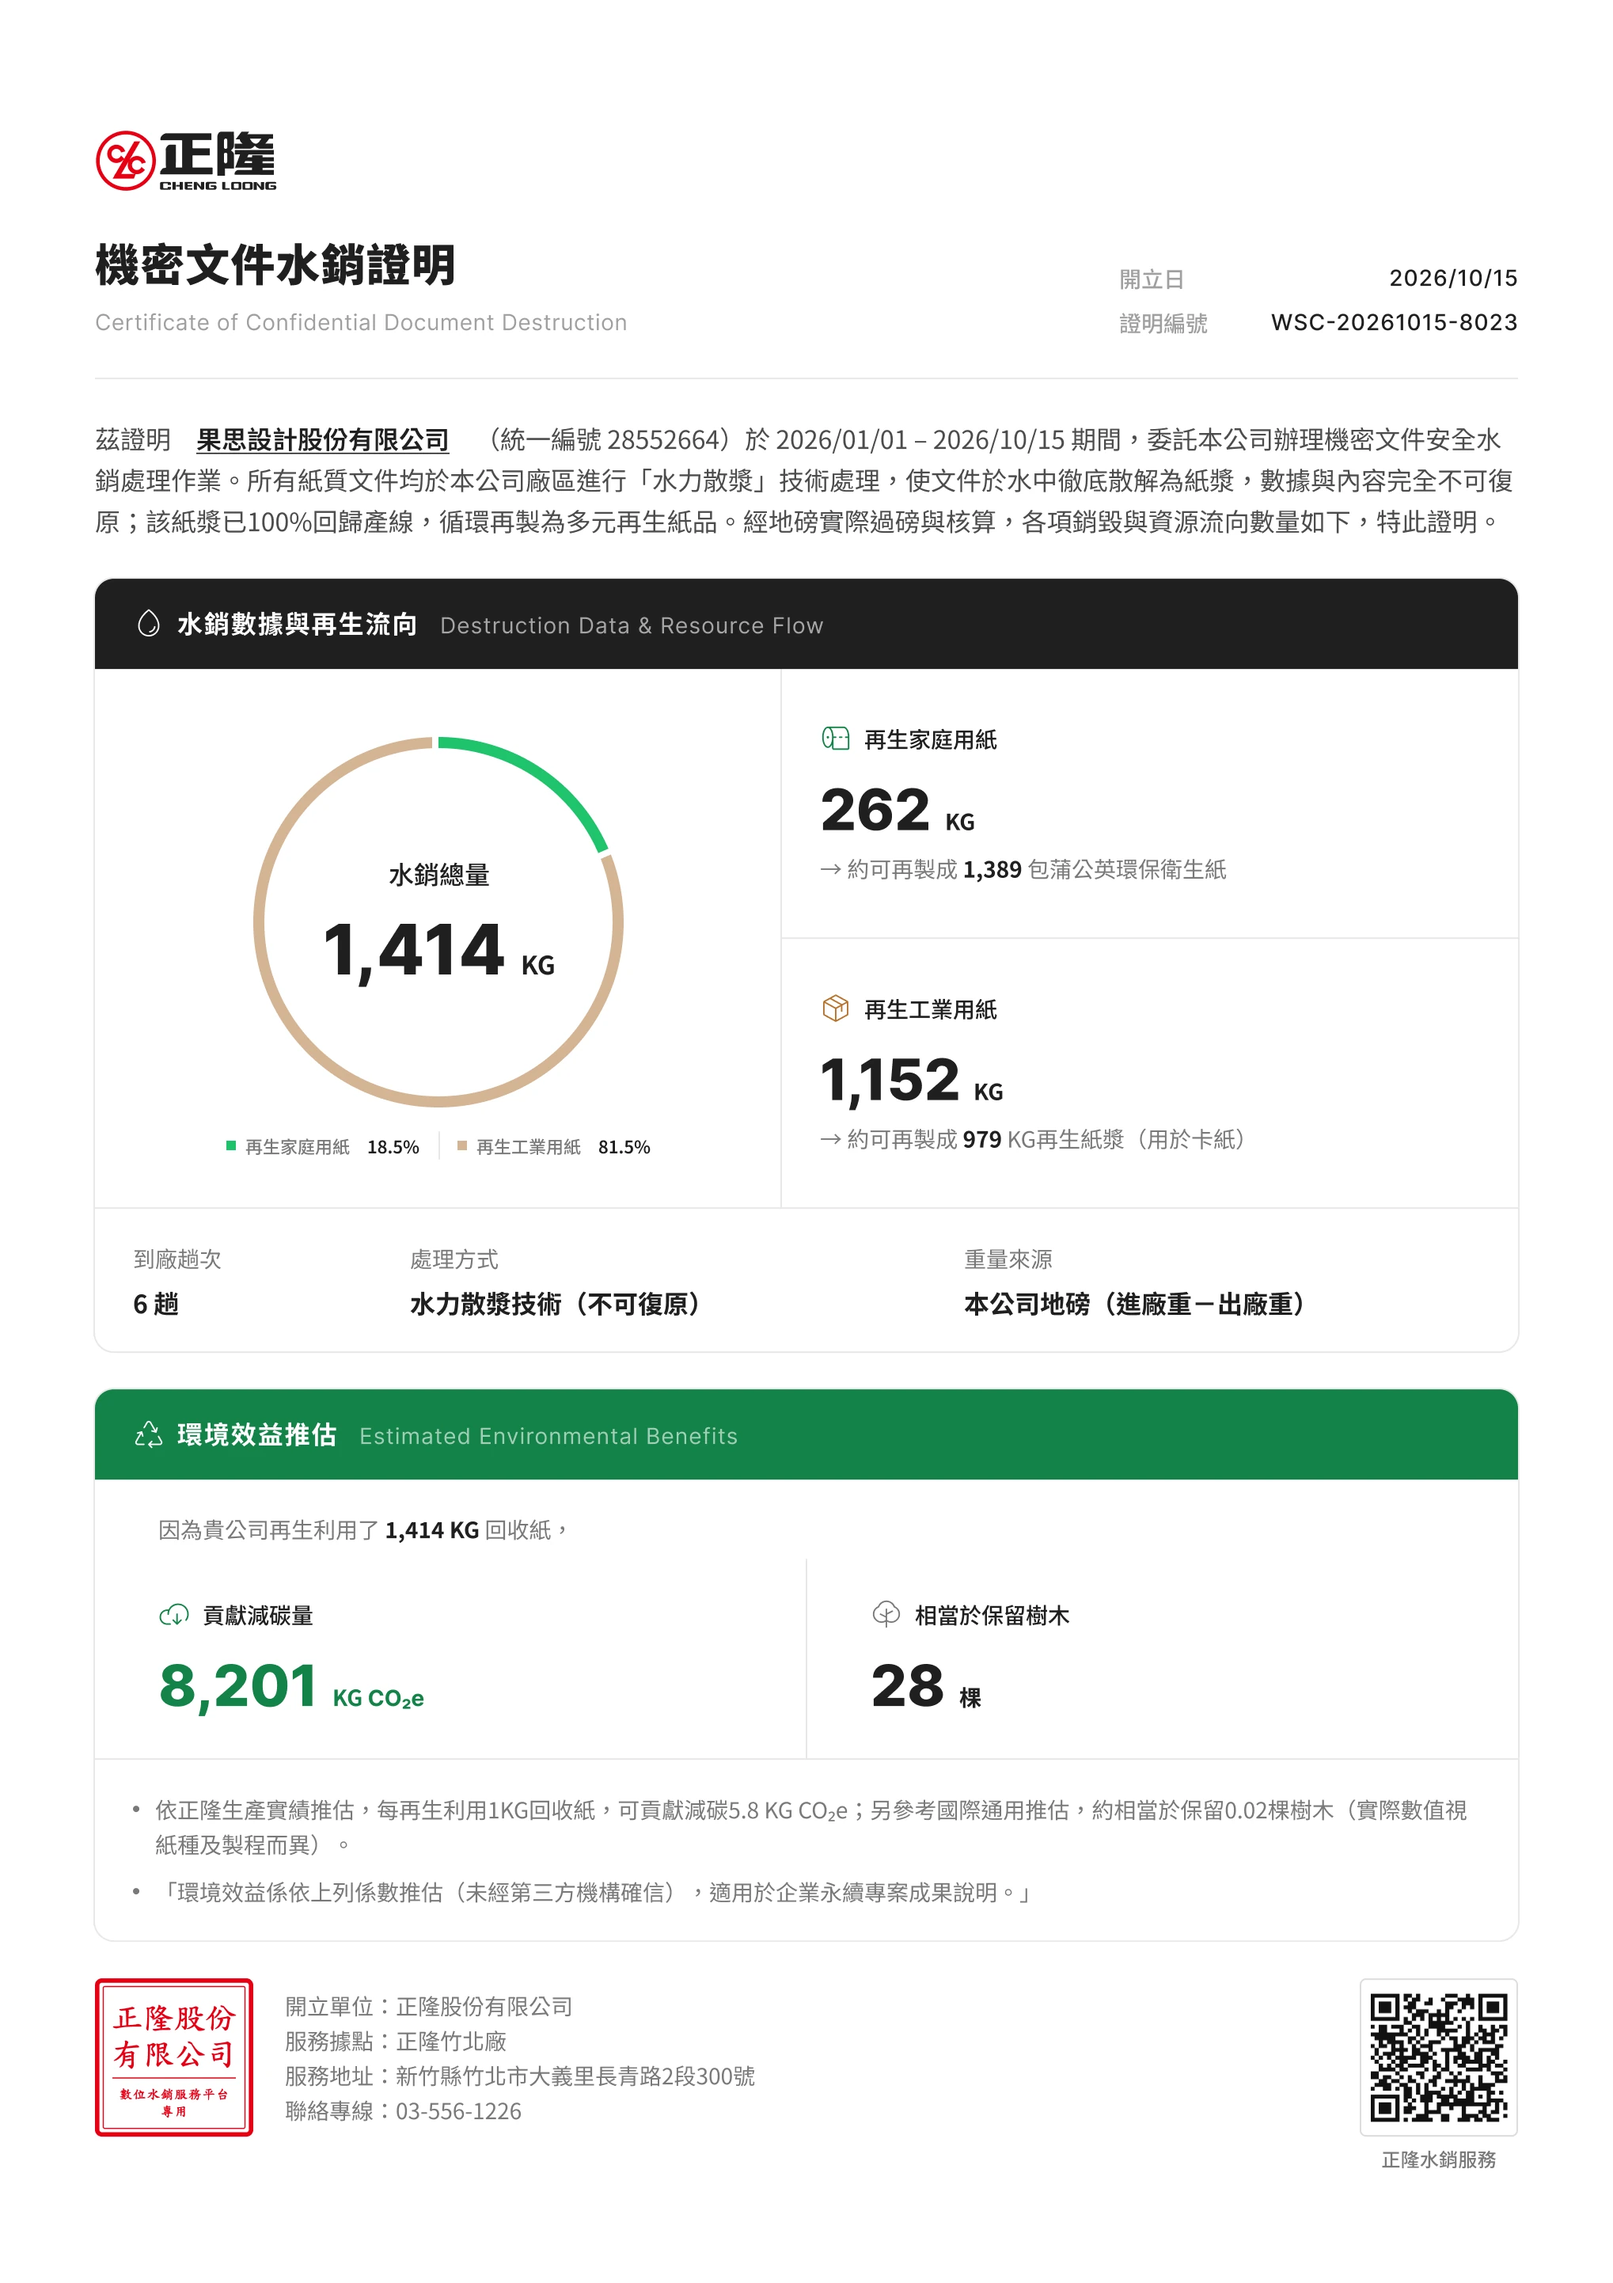
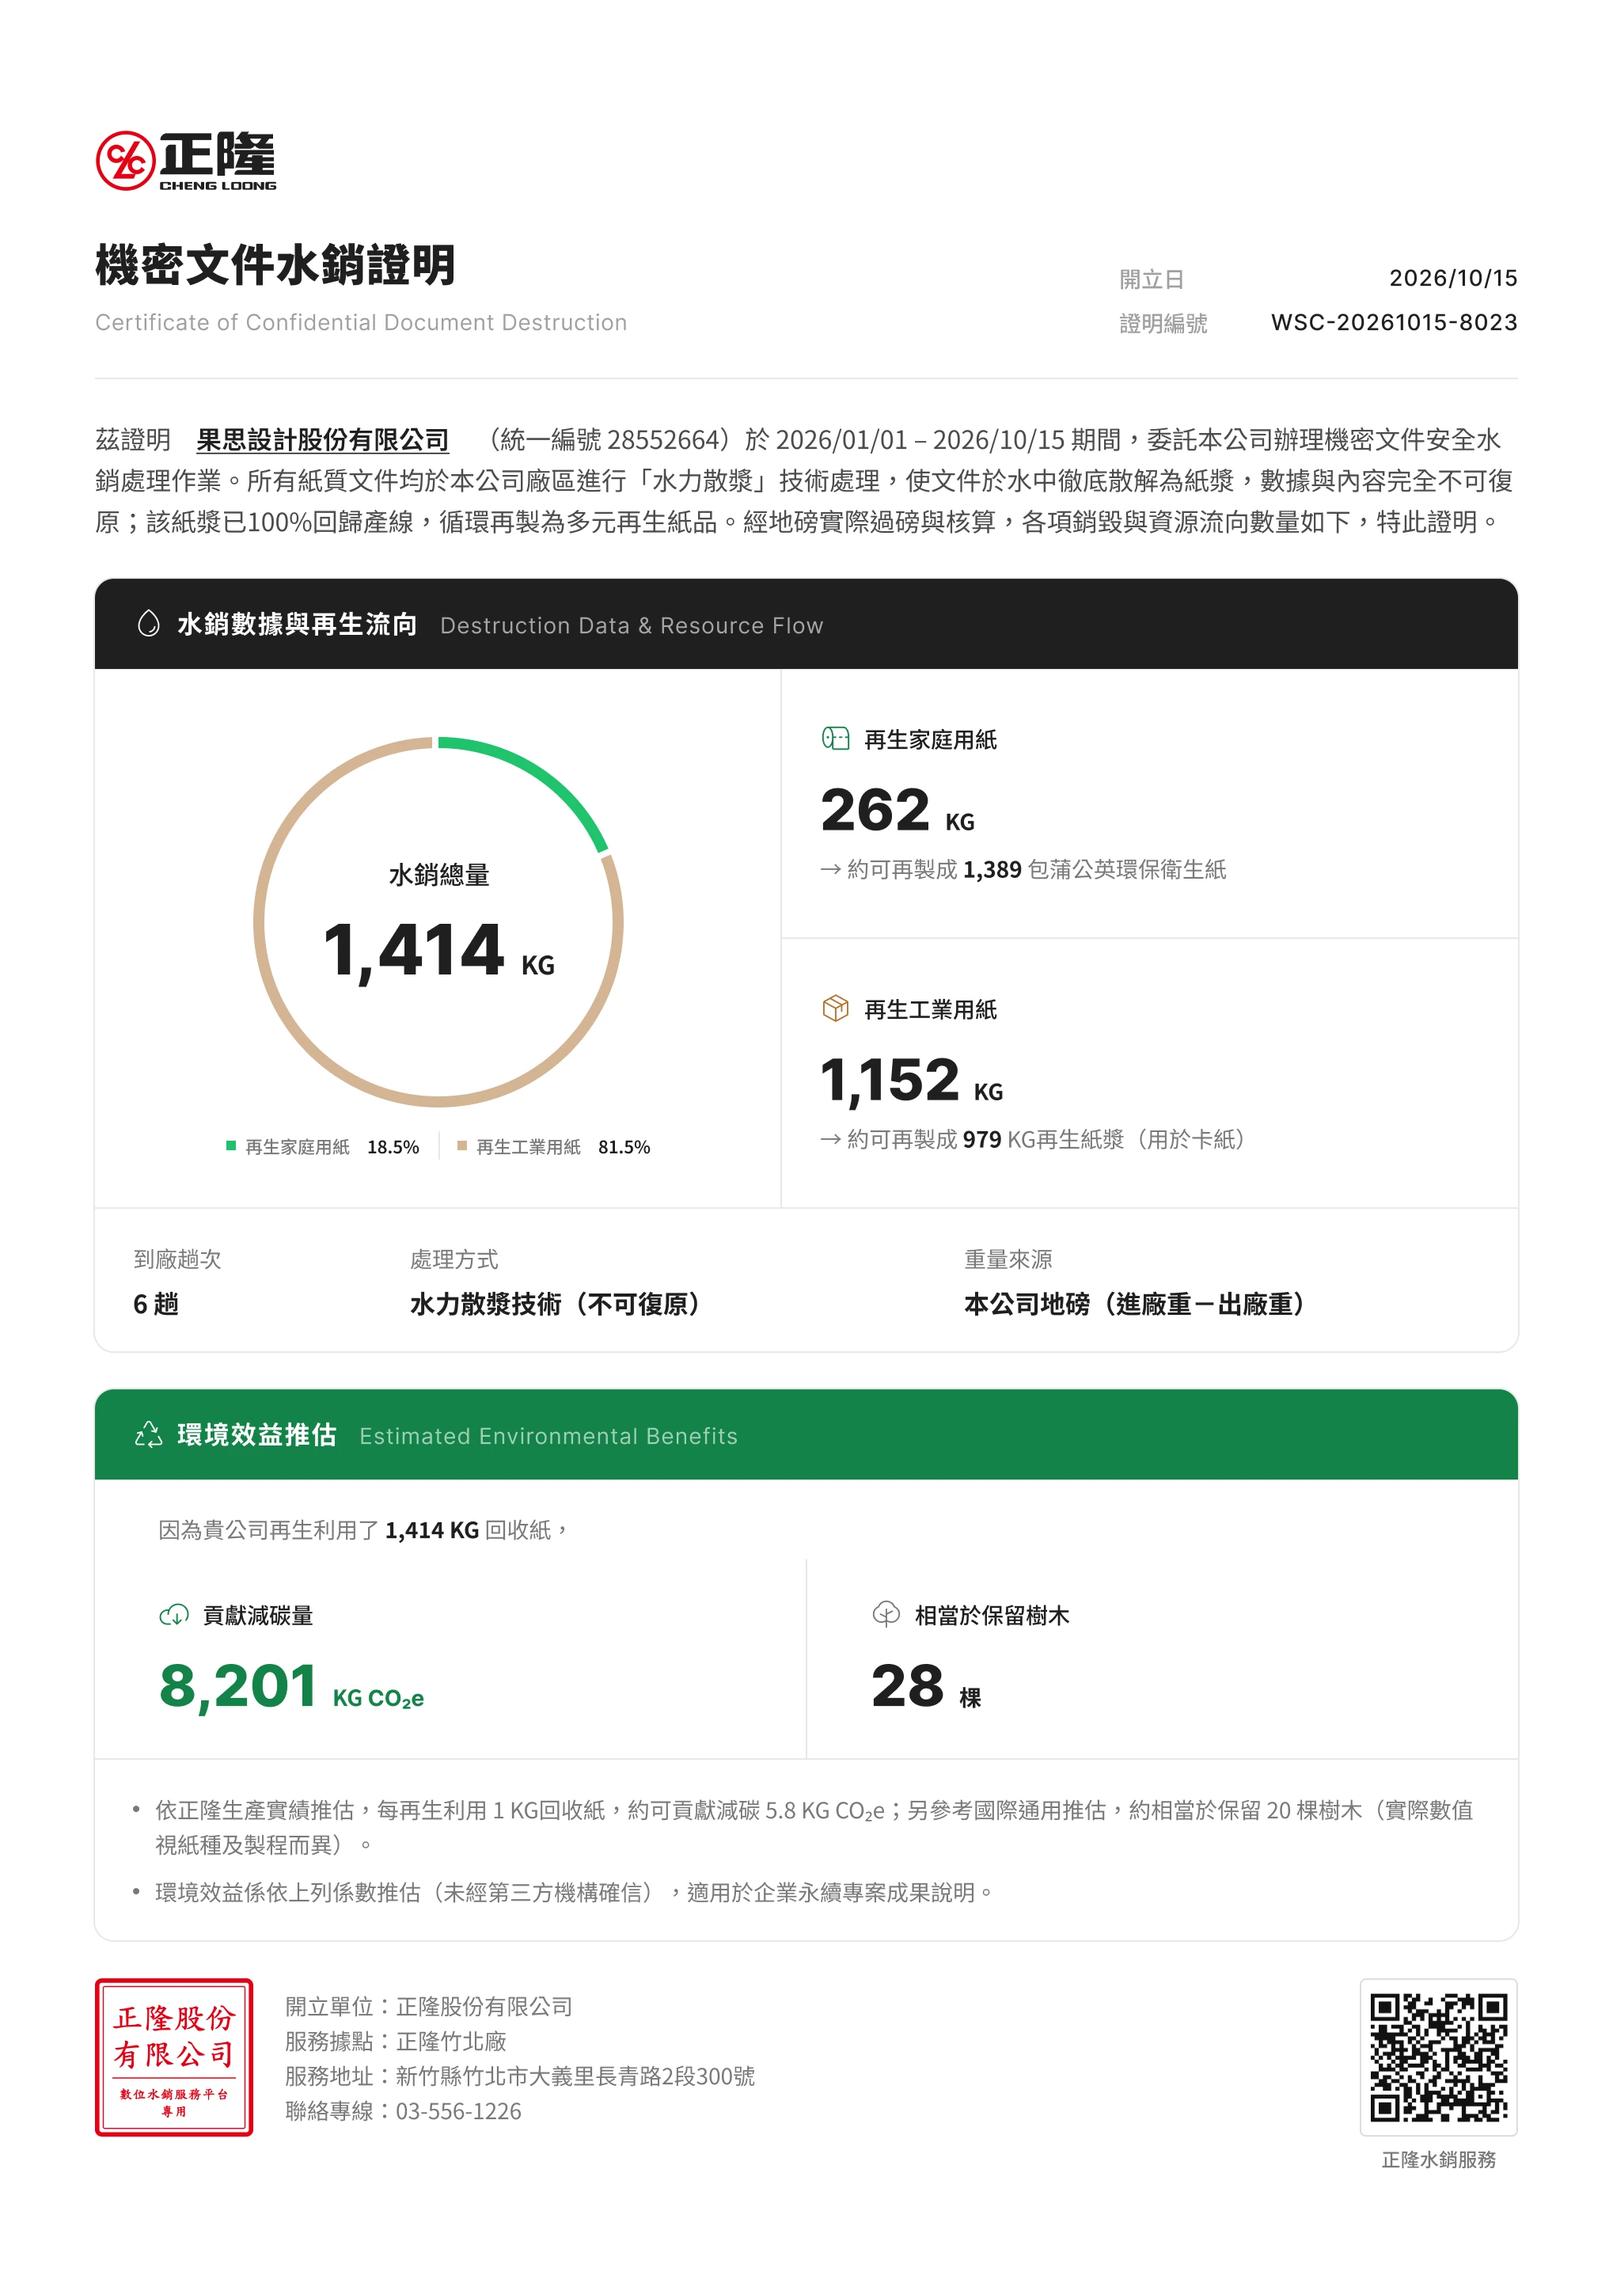
R3: certificate modal image from the main component (latest copy edits); mobile horizontal value cycle at 0.8x
Claude-Session: https://claude.ai/code/session_01DNVcy9hAWfEoBXu333tfb9

Changed region(s): [[0.0927, 0.7802, 0.8965, 0.8426]]

diff --git a/site/index.html b/site/index.html
@@ -60,7 +60,7 @@
   if (d.classList.contains('is-static') || !el) { if (el) el.remove(); boot(); return; }
   d.classList.add('is-loading');
 
-  var LIST = [["assets/01-hero/logo-mark.svg",4858],["assets/01-hero/logo-zh.svg",5519],["assets/01-hero/logo-en.svg",8959],["assets/common/icon-arrow-w-20.svg",705],["assets/common/icon-arrow-dark.svg",705],["assets/01-hero/cover-4.webp",580948],["assets/01-hero/cover-3.webp",131604],["assets/01-hero/cover-2.webp",444268],["assets/01-hero/cover-1.webp",63926],["assets/01-hero/icon-safe.svg",1689],["assets/01-hero/icon-leaf.svg",1502],["assets/01-hero/icon-recycle.svg",4489],["assets/common/icon-arrow-w.svg",703],["assets/01-hero/icon-info.svg",2192],["assets/01-hero/tooltip-arrow.svg",350],["assets/02-about/card2-ellipse-a.svg",425],["assets/02-about/card2-ellipse-b.webp",1980],["assets/02-about/card2-dot.svg",453],["assets/02-about/card3-ellipse-outer.svg",693],["assets/02-about/card3-ellipse-inner.webp",1430],["assets/02-about/card3-dot.svg",852],["assets/02-about/value-cycle-s-band.svg",3054],["assets/02-about/value-cycle-l-band.svg",3024],["assets/02-about/infinity-breathe.json",61823],["assets/02-about/value-cycle-s-nodes.svg",244089],["assets/02-about/value-cycle-l-nodes.svg",242051],["assets/03-paper/arrow.svg",705],["assets/03-paper/step1-pulper.webp",57636],["assets/03-paper/step2-workers.webp",52372],["assets/03-paper/step3-tissue.webp",46280],["assets/03-paper/ecolabel-1.svg",3407],["assets/03-paper/ecolabel-2.svg",23883],["assets/03-paper/ecolabel-fsc.svg",24928],["assets/04-process/card1-typing.webp",27372],["assets/04-process/icon-files.svg",2045],["assets/04-process/card2-truck.webp",85466],["assets/04-process/icon-truck.svg",2867],["assets/04-process/card3-pulper.webp",92726],["assets/04-process/icon-drop.svg",1611],["assets/04-process/card4-laptop.webp",65938],["assets/04-process/card4-screen.webp",32332],["assets/04-process/icon-recycle.svg",2217],["assets/04-process/icon-info.svg",2194],["assets/04-process/booking-mockup2.webp",542670],["assets/04-process/prepare-1.webp",65766],["assets/04-process/prepare-2.webp",51946],["assets/04-process/prepare-3.webp",68646],["assets/04-process/route-home@2x.webp",53214],["assets/04-process/route-industrial@2x.webp",52052],["assets/05-green/m-arrow-next.svg",705],["assets/05-green/greenpts-coins.webp",43216],["assets/05-green/paper-dandelion.webp",33306],["assets/05-green/m-icon-cart.svg",1651],["assets/05-green/icon-cart.svg",1837],["assets/05-green/m-icon-hand-heart.svg",2975],["assets/05-green/icon-hand-heart.svg",3159],["assets/05-green/certificate-pdf@3x.webp",69942],["assets/05-green/m-icon-badge-check.svg",3534],["assets/05-green/icon-badge-check.svg",3797],["assets/05-green/esg-hand.webp",26122],["assets/05-green/certificate-full@2x.webp",232090],["assets/06-strip/photo-forklift.webp",59522],["assets/06-strip/photo-windmill.webp",20270],["assets/06-strip/photo-seedling.webp",43038],["assets/06-strip/photo-lab.webp",72892],["assets/06-strip/photo-pulp-stack.webp",34264],["assets/06-strip/photo-paper-roll.webp",26138],["assets/07-faq/icon-minus-24.svg",289],["assets/07-faq/icon-minus-32.svg",302],["assets/07-faq/icon-add-24.svg",309],["assets/07-faq/icon-add-32.svg",309],["assets/08-cta/bg-composite.webp",52248],["assets/09-footer/logo-mark.svg",4865],["assets/09-footer/logo-zh.svg",5534],["assets/09-footer/logo-en.svg",8800],["assets/09-footer/line-top.svg",248],["assets/04-process/card4-screen-mask.svg",765]];
+  var LIST = [["assets/01-hero/logo-mark.svg",4858],["assets/01-hero/logo-zh.svg",5519],["assets/01-hero/logo-en.svg",8959],["assets/common/icon-arrow-w-20.svg",705],["assets/common/icon-arrow-dark.svg",705],["assets/01-hero/cover-4.webp",580948],["assets/01-hero/cover-3.webp",131604],["assets/01-hero/cover-2.webp",444268],["assets/01-hero/cover-1.webp",63926],["assets/01-hero/icon-safe.svg",1689],["assets/01-hero/icon-leaf.svg",1502],["assets/01-hero/icon-recycle.svg",4489],["assets/common/icon-arrow-w.svg",703],["assets/01-hero/icon-info.svg",2192],["assets/01-hero/tooltip-arrow.svg",350],["assets/02-about/card2-ellipse-a.svg",425],["assets/02-about/card2-ellipse-b.webp",1980],["assets/02-about/card2-dot.svg",453],["assets/02-about/card3-ellipse-outer.svg",693],["assets/02-about/card3-ellipse-inner.webp",1430],["assets/02-about/card3-dot.svg",852],["assets/02-about/value-cycle-s-band.svg",3054],["assets/02-about/value-cycle-l-band.svg",3024],["assets/02-about/infinity-breathe.json",61823],["assets/02-about/value-cycle-s-nodes.svg",244089],["assets/02-about/value-cycle-l-nodes.svg",242051],["assets/03-paper/arrow.svg",705],["assets/03-paper/step1-pulper.webp",57636],["assets/03-paper/step2-workers.webp",52372],["assets/03-paper/step3-tissue.webp",46280],["assets/03-paper/ecolabel-1.svg",3407],["assets/03-paper/ecolabel-2.svg",23883],["assets/03-paper/ecolabel-fsc.svg",24928],["assets/04-process/card1-typing.webp",27372],["assets/04-process/icon-files.svg",2045],["assets/04-process/card2-truck.webp",85466],["assets/04-process/icon-truck.svg",2867],["assets/04-process/card3-pulper.webp",92726],["assets/04-process/icon-drop.svg",1611],["assets/04-process/card4-laptop.webp",65938],["assets/04-process/card4-screen.webp",32332],["assets/04-process/icon-recycle.svg",2217],["assets/04-process/icon-info.svg",2194],["assets/04-process/booking-mockup2.webp",542670],["assets/04-process/prepare-1.webp",65766],["assets/04-process/prepare-2.webp",51946],["assets/04-process/prepare-3.webp",68646],["assets/04-process/route-home@2x.webp",53214],["assets/04-process/route-industrial@2x.webp",52052],["assets/05-green/m-arrow-next.svg",705],["assets/05-green/greenpts-coins.webp",43216],["assets/05-green/paper-dandelion.webp",33306],["assets/05-green/m-icon-cart.svg",1651],["assets/05-green/icon-cart.svg",1837],["assets/05-green/m-icon-hand-heart.svg",2975],["assets/05-green/icon-hand-heart.svg",3159],["assets/05-green/certificate-pdf@3x.webp",69942],["assets/05-green/m-icon-badge-check.svg",3534],["assets/05-green/icon-badge-check.svg",3797],["assets/05-green/esg-hand.webp",26122],["assets/05-green/certificate-full@2x.webp",232052],["assets/06-strip/photo-forklift.webp",59522],["assets/06-strip/photo-windmill.webp",20270],["assets/06-strip/photo-seedling.webp",43038],["assets/06-strip/photo-lab.webp",72892],["assets/06-strip/photo-pulp-stack.webp",34264],["assets/06-strip/photo-paper-roll.webp",26138],["assets/07-faq/icon-minus-24.svg",289],["assets/07-faq/icon-minus-32.svg",302],["assets/07-faq/icon-add-24.svg",309],["assets/07-faq/icon-add-32.svg",309],["assets/08-cta/bg-composite.webp",52248],["assets/09-footer/logo-mark.svg",4865],["assets/09-footer/logo-zh.svg",5534],["assets/09-footer/logo-en.svg",8800],["assets/09-footer/line-top.svg",248],["assets/04-process/card4-screen-mask.svg",765]];
   var MIN = 600, MAX = 15000, CONC = 6, t0 = performance.now();
   var total = 0, got = {}, done = 0, finished = false;
   LIST.forEach(function (it) { total += it[1]; });

diff --git a/site/draft.css b/site/draft.css
@@ -1593,7 +1593,7 @@ html.is-loading { overflow: hidden; }
 }
 
 /* ---------- 手機版循環圖：直式／橫式滑動切換（R3 客戶，比對用）----------
-   預設橫式滑動（.is-h，JS 加）：電腦版圖放大到 900 寬、可左右滑，開場置中在中間圓幣；Lottie 不轉向。
+   預設橫式滑動（.is-h，JS 加）：電腦版圖 720 寬（原 900，客戶要求先縮 0.8 倍）、可左右滑，開場置中在中間圓幣；Lottie 不轉向。
    直式（.is-v）：維持原本手機版（-s 圖＋Lottie 轉 90°）。 */
 @media (max-width: 640px) {
   .cl-about__cycle-mode {
@@ -1631,7 +1631,7 @@ html.is-loading { overflow: hidden; }
     scrollbar-width: none;
   }
   .cl-about__cycle.is-h .cl-about__cycle-img::-webkit-scrollbar { display: none; }
-  .cl-about__cycle.is-h .cl-about__cycle-stage { width: 900px; overflow: visible; margin: 0 16px; }
+  .cl-about__cycle.is-h .cl-about__cycle-stage { width: 720px; overflow: visible; margin: 0 16px; }   /* R3：900 縮 0.8 倍看效果 */
   .cl-about__cycle.is-h .cl-about__cycle-img img { width: 100%; }
   .cl-about__cycle.is-h .cl-about__cycle-anim { width: 100%; height: 100%; overflow: hidden; transform: none; }
   .cl-about__cycle.is-h .cl-about__cycle-hint {

diff --git a/site/css/sections/02-about.css b/site/css/sections/02-about.css
@@ -406,7 +406,7 @@
 }
 
 /* ---------- 手機版循環圖：直式／橫式滑動切換（R3 客戶，比對用）----------
-   預設橫式滑動（.is-h，JS 加）：電腦版圖放大到 900 寬、可左右滑，開場置中在中間圓幣；Lottie 不轉向。
+   預設橫式滑動（.is-h，JS 加）：電腦版圖 720 寬（原 900，客戶要求先縮 0.8 倍）、可左右滑，開場置中在中間圓幣；Lottie 不轉向。
    直式（.is-v）：維持原本手機版（-s 圖＋Lottie 轉 90°）。 */
 @media (max-width: 640px) {
   .cl-about__cycle-mode {
@@ -444,7 +444,7 @@
     scrollbar-width: none;
   }
   .cl-about__cycle.is-h .cl-about__cycle-img::-webkit-scrollbar { display: none; }
-  .cl-about__cycle.is-h .cl-about__cycle-stage { width: 900px; overflow: visible; margin: 0 16px; }
+  .cl-about__cycle.is-h .cl-about__cycle-stage { width: 720px; overflow: visible; margin: 0 16px; }   /* R3：900 縮 0.8 倍看效果 */
   .cl-about__cycle.is-h .cl-about__cycle-img img { width: 100%; }
   .cl-about__cycle.is-h .cl-about__cycle-anim { width: 100%; height: 100%; overflow: hidden; transform: none; }
   .cl-about__cycle.is-h .cl-about__cycle-hint {

diff --git a/_design-loop/audit-source.md b/_design-loop/audit-source.md
@@ -110,5 +110,6 @@
 | 2026-10-27 | R3 客戶回饋：文字 | — | CO2e 的 2 下標；關於卡 1「入場」→「入廠」；Step 01 多餘空格刪除；獲得綠點補句號；FAQ 三則改文（車號、水銷證明、將點數用於捐贈）；手機頁尾文字改與電腦版一致 | 客戶（R3） |
 | 2026-10-27 | R3 水銷證明 | Figma 1600:16017 改版 | 卡內圖與彈窗大圖重新匯出（WebP q90），pdf 可視範圍依稿微調 | 客戶（R3） |
 | 2026-10-27 | R3 手機首屏三顆標籤 | 僅標籤 | 點擊往下展開說明（文案同電腦版首頁特色），同時只開一個 | 客戶（R3） |
-| 2026-10-27 | R3 手機水銷價值循環 | 直式（-s 圖＋Lottie 轉 90°） | 加「橫式滑動」版（電腦版圖 900 寬、可左右滑、開場置中圓幣）＋直式／橫式切換鈕（比對用，預設橫式） | 客戶（R3） |
+| 2026-10-27 | R3 手機水銷價值循環 | 直式（-s 圖＋Lottie 轉 90°） | 加「橫式滑動」版（電腦版圖 720 寬（原 900 再縮 0.8）、可左右滑、開場置中圓幣）＋直式／橫式切換鈕（比對用，預設橫式） | 客戶（R3） |
 | 2026-10-27 | R3 服務條款頁 | 無 | 新增 terms.html：沿用 header／選單／頁尾，標題＋目錄＋十條條文（草稿，待正隆法務確認）；header 抽成共用 _header.html，選單 JS 移到 00-header.js | 客戶（R3） |
+| 2026-10-27 | R3 水銷證明彈窗大圖 | 1812:37717 instance 有覆寫舊文字 | 改從元件本體 1600:16017 匯出（「約可貢獻減碳」、刪除上下引號已生效） | 客戶（R3） |
